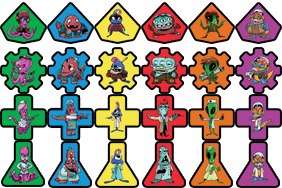
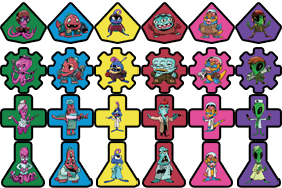
Color and Stationed
Updated colors on saucer mats, move card backs, and crewmembers. Also changed "seated" to "stationed".

diff --git a/crashandgrab.js b/crashandgrab.js
@@ -4416,7 +4416,7 @@ console.log("owner:"+saucer.owner+" color:"+saucer.color);
 
                 // add hover overs to tell them what this is
                 var probeHtmlId = 'player_board_turn_order_indicator_'+saucer.color;
-                this.addTooltip(probeHtmlId, _('<b>Probe:</b> The player with the Probe takes the first turn in the round. You will not know which direction it will go from them until after moves are chosen.<BR/><BR/> The player with the least seated Crewmembers gets the Probe each round with the tie-breaker being who went later in turn order the previous round.'), '');
+                this.addTooltip(probeHtmlId, _('<b>Probe:</b> The player with the Probe takes the first turn in the round. You will not know which direction it will go from them until after moves are chosen.<BR/><BR/> The player with the least stationed Crewmembers gets the Probe each round with the tie-breaker being who went later in turn order the previous round.'), '');
 
             }
         },

diff --git a/crashandgrab.game.php b/crashandgrab.game.php
@@ -2486,7 +2486,7 @@ echo("<br>");
 
 						// Waste Accelerator
 						case 8:
-							return clienttranslate( 'Once per turn, use an empty Crash Site as an Accelerator.');
+							return clienttranslate( 'Once on your turn, use an empty Crash Site as an Accelerator.');
 
 						// Hyperdrive
 						case 9:
@@ -3195,7 +3195,7 @@ echo("<br>");
 				if($totalCrewmembersOfStealer > $totalCrewmembersOfCrashed)
 				{ // stealer has more Crewmembers than the crashed saucer
 						// notify all players that stealer may not steal from crashed because they have more crewmembers
-						self::notifyAllPlayers( "cannotSteal", clienttranslate( '${stealer_color} has more seated Crewmembers than ${stealee_color} so they may not steal any from them.' ), array(
+						self::notifyAllPlayers( "cannotSteal", clienttranslate( '${stealer_color} has more stationed Crewmembers than ${stealee_color} so they may not steal any from them.' ), array(
 								'stealer_color' => $saucerColorFriendlyStealer,
 								'stealee_color' => $saucerColorFriendlyCrashed
 						) );
@@ -8833,10 +8833,10 @@ echo("<br>");
 						$message = clienttranslate( '${ostrichName} has been randomly chosen to start with the Probe and will go first this round.' );
 						break;
 					case "Least":
-						$message = clienttranslate( '${ostrichName} gets the Probe because they have the least seated Crewmembers.' );
+						$message = clienttranslate( '${ostrichName} gets the Probe because they have the least stationed Crewmembers.' );
 						break;
 					case "TiedWentLast":
-						$message = clienttranslate( '${ostrichName} gets the Probe because they are tied for the least seated Crewmembers and won the tie-breaker of going later in the previous round.' );
+						$message = clienttranslate( '${ostrichName} gets the Probe because they are tied for the least stationed Crewmembers and won the tie-breaker of going later in the previous round.' );
 						break;
 				}
 				
